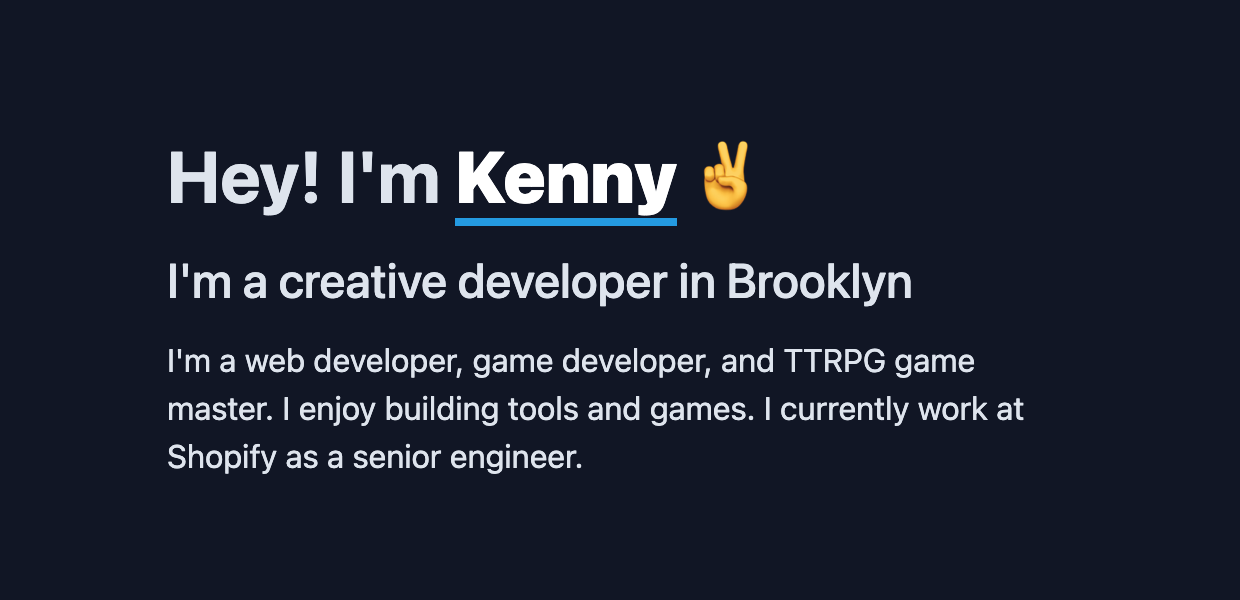
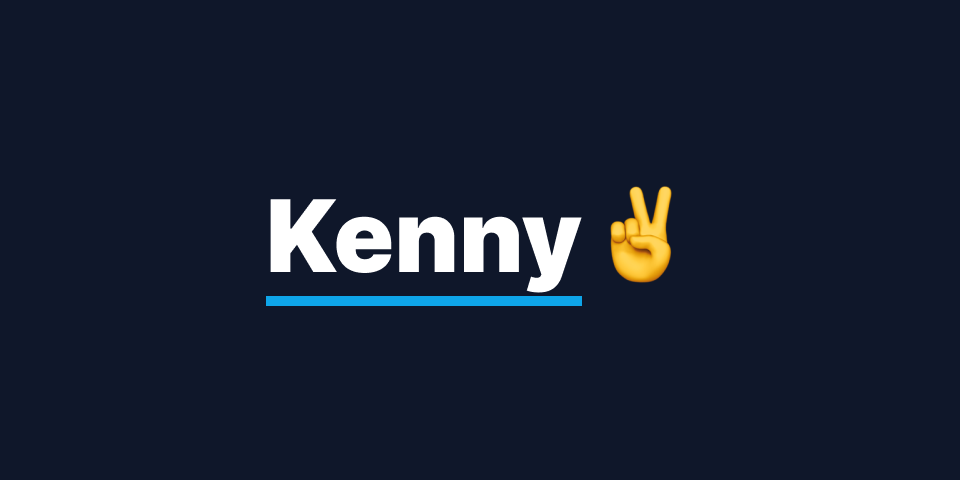
Improve homepage hero

Changed region(s): [[0.125, 0.375, 0.8438, 0.7812], [0.125, 0.2188, 0.625, 0.375]]

diff --git a/app/routes/_index.tsx b/app/routes/_index.tsx
@@ -29,21 +29,22 @@ export default function Index() {
         </Link>
       </header>
       <main className="max-w-6xl m-auto p-4">
-        <section className="text my-16 sm:my-16 md:my-24 max-w-md">
+        <section className="text my-16 sm:my-16 md:my-24">
           <h1 className="mb-4 text-4xl font-bold">
-            Hey! I'm{" "}
-            <span className="text-white font-black border-b-4 border-sky-500 relative">
-              Kenny
-            </span>{" "}
-            ✌
+            Hey! My name is{" "}
+            <span className="text-nowrap">
+              <span className="text-white font-black border-b-4 border-sky-500 relative">
+                Kenny
+              </span>{" "}
+              ✌
+            </span>
           </h1>
-          <h1 className="mb-3 text-2xl font-medium">
+          <h1 className="mb-3 text-xl sm:text-2xl font-semibold">
             I'm a creative developer in Brooklyn
           </h1>
-          <p className="mb-2">
-            I'm a web developer, game developer, and TTRPG game master. I enjoy
-            building tools and games. I currently work at Shopify as a senior
-            engineer.
+          <p className="mb-2 max-w-md">
+            I'm a software developer and TTRPG game master. I love building
+            tools and games. I currently work at Shopify as a frontend engineer.
           </p>
           <p className="flex flex-row gap-3">
             <a
